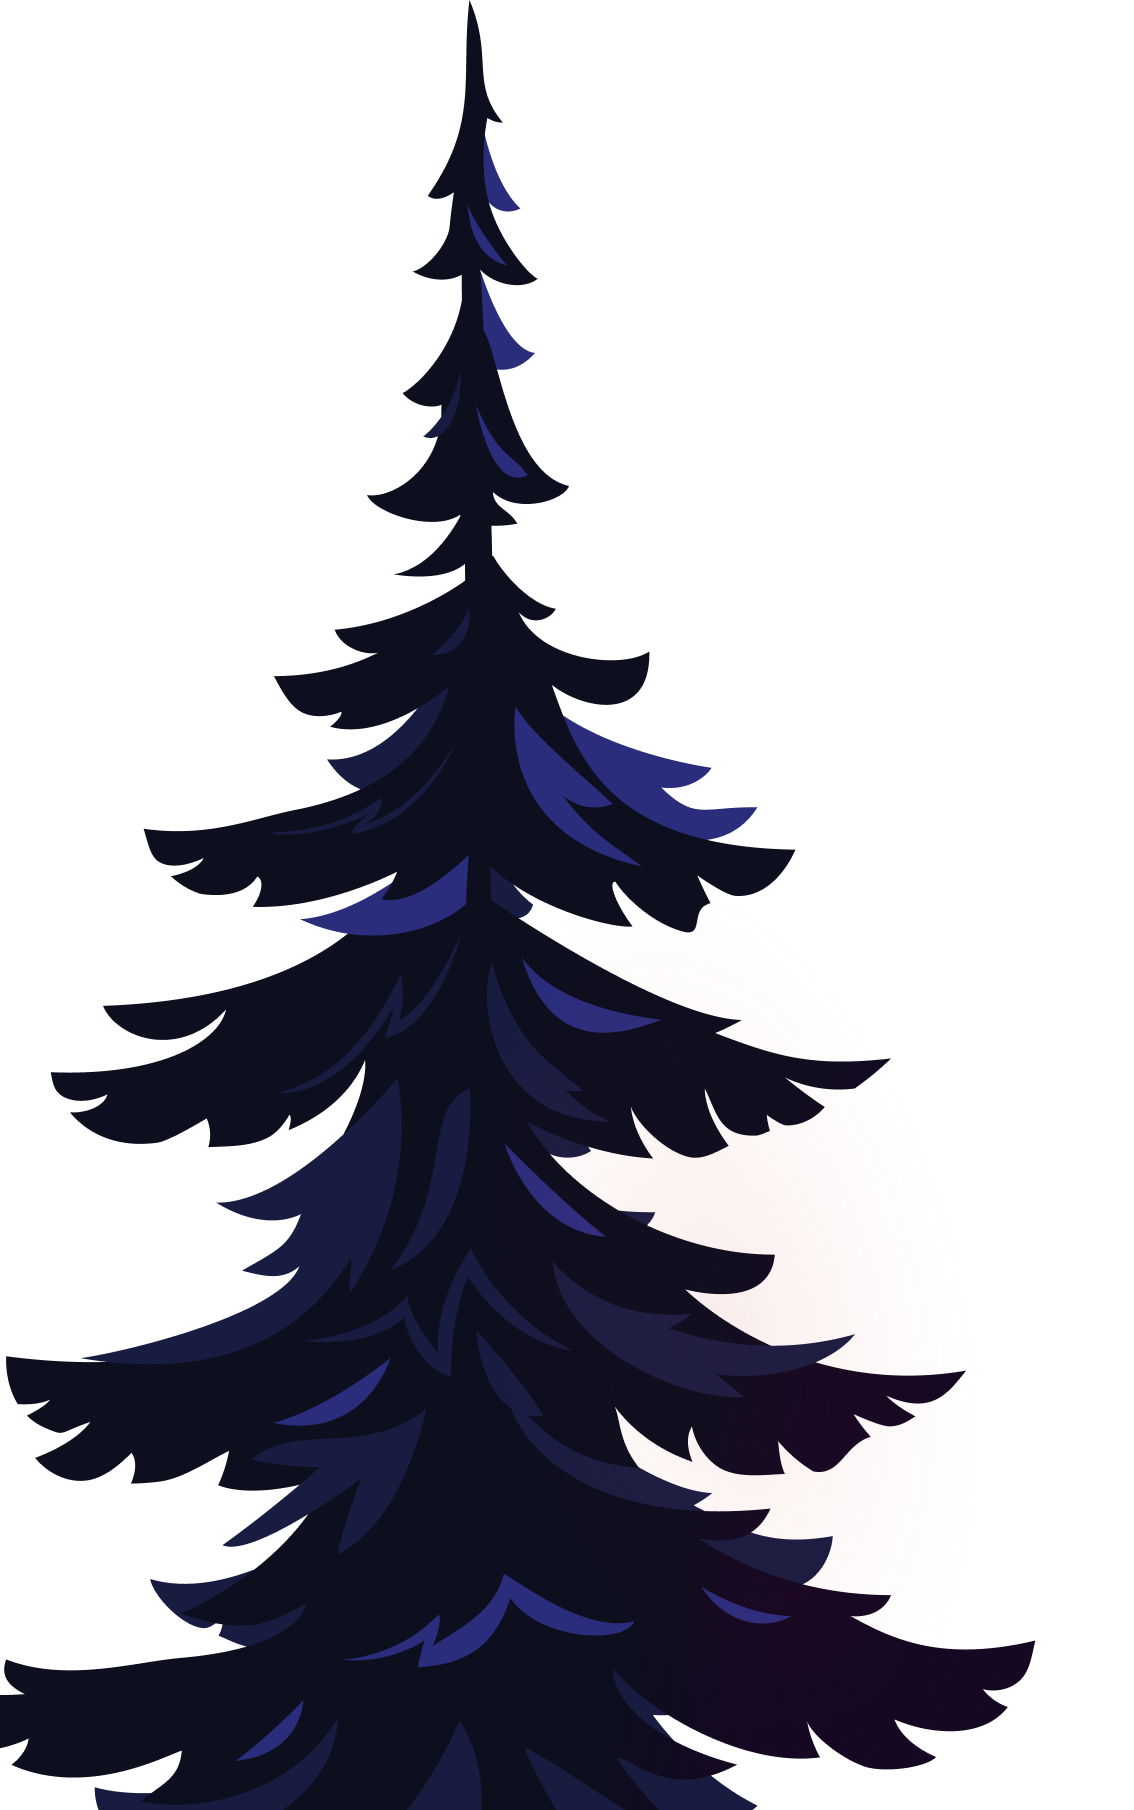
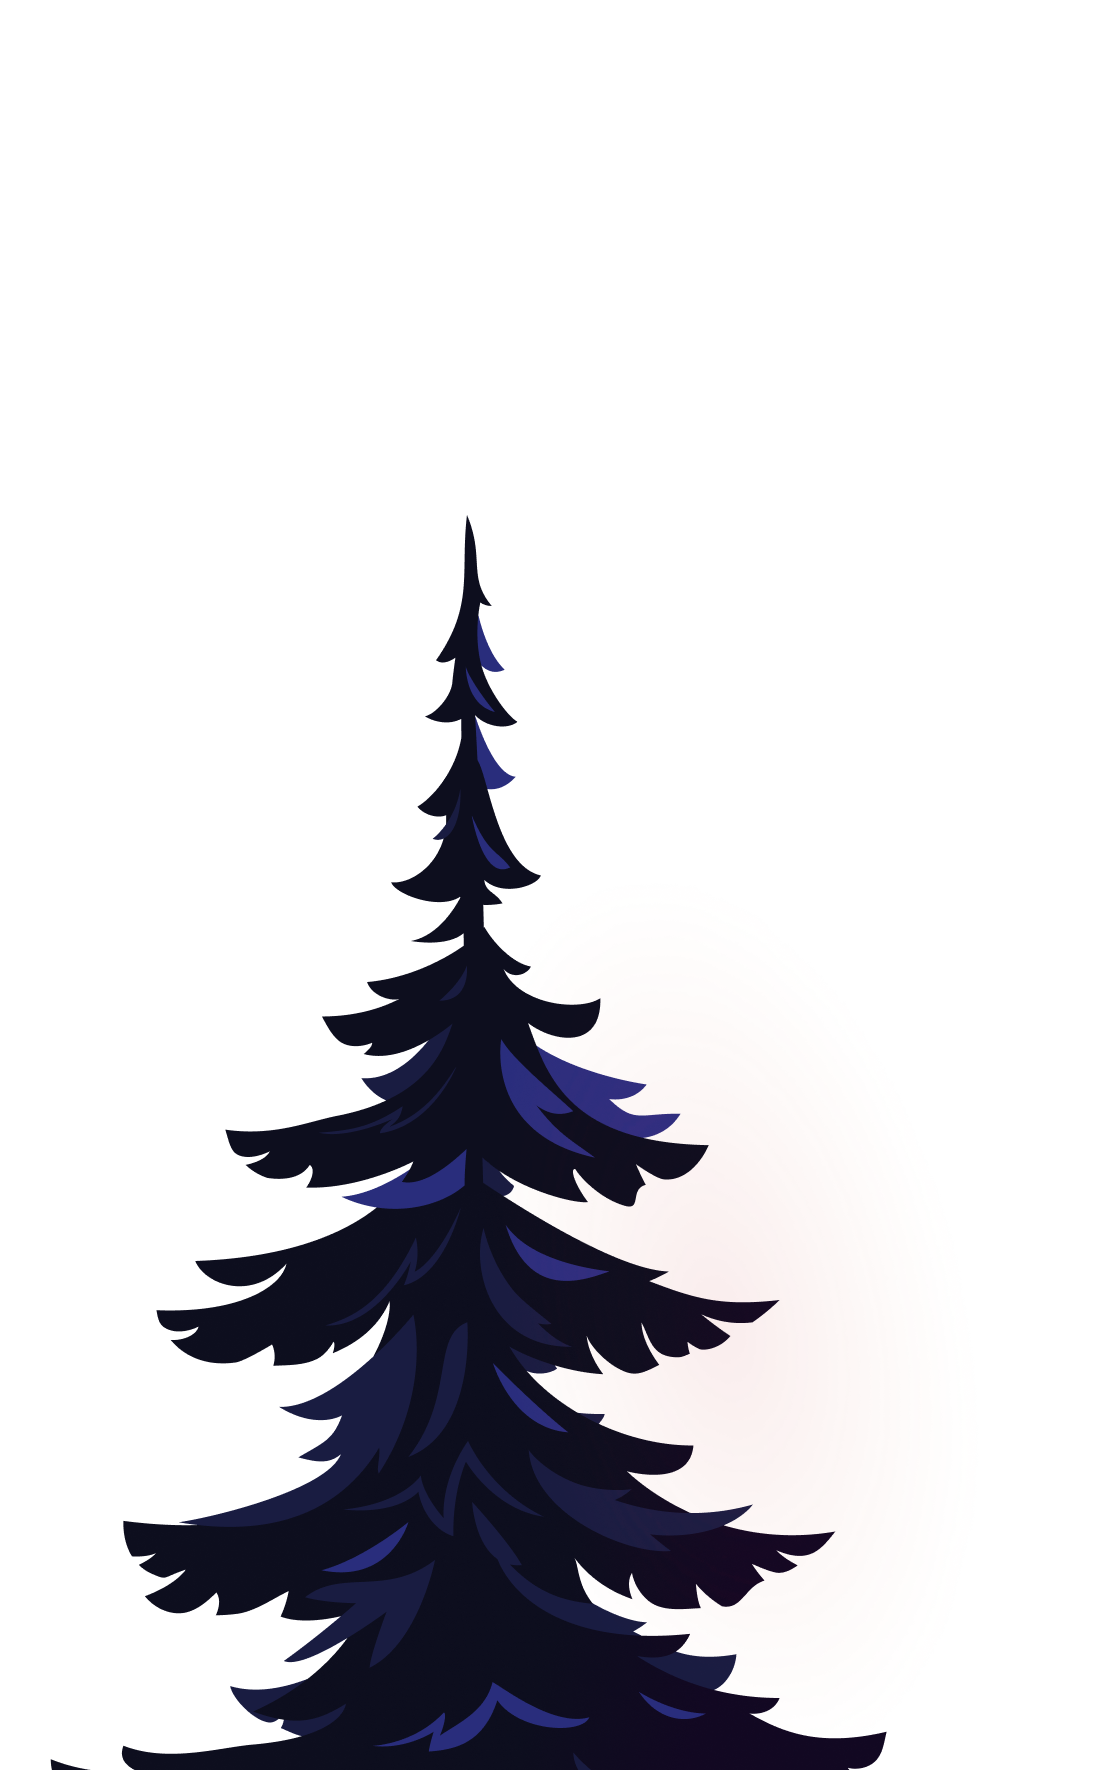
Edited welcome page image

Changed region(s): [[0.0, 0.0, 0.9324, 1.0]]

diff --git a/src/app/components/layouts/BoardingPageLayout.tsx b/src/app/components/layouts/BoardingPageLayout.tsx
@@ -89,13 +89,16 @@ const BoardingPageLayout: FC<BoardingPageLayoutProps> = ({
         <img
           src={WelcomeTreeLeftImage}
           alt="Vigvam"
-          className={classNames("absolute bottom-0 left-0", "h-[83.5%] w-auto")}
+          className={classNames(
+            "absolute bottom-0 left-[5%]",
+            "h-[82%] w-auto"
+          )}
         />
         <img
           src={WelcomeTreeRightImage}
           alt="Vigvam"
           className={classNames(
-            "absolute bottom-0 right-0",
+            "absolute bottom-0 right-[2%] z-[2]",
             "h-[82.6%] w-auto"
           )}
         />
@@ -104,15 +107,15 @@ const BoardingPageLayout: FC<BoardingPageLayoutProps> = ({
           alt="Vigvam"
           className={classNames(
             "absolute bottom-[7.5%] right-[22.7%]",
-            "h-[42.1%] w-auto"
+            "h-[42.22%] w-auto"
           )}
         />
         <img
           src={WelcomeFireImage}
           alt="Vigvam"
           className={classNames(
-            "absolute bottom-[8.5%] right-[42%]",
-            "h-[50.8%] w-auto"
+            "absolute bottom-[4.5%] right-[36%]",
+            "h-[54.5%] w-auto"
           )}
         />
       </>
